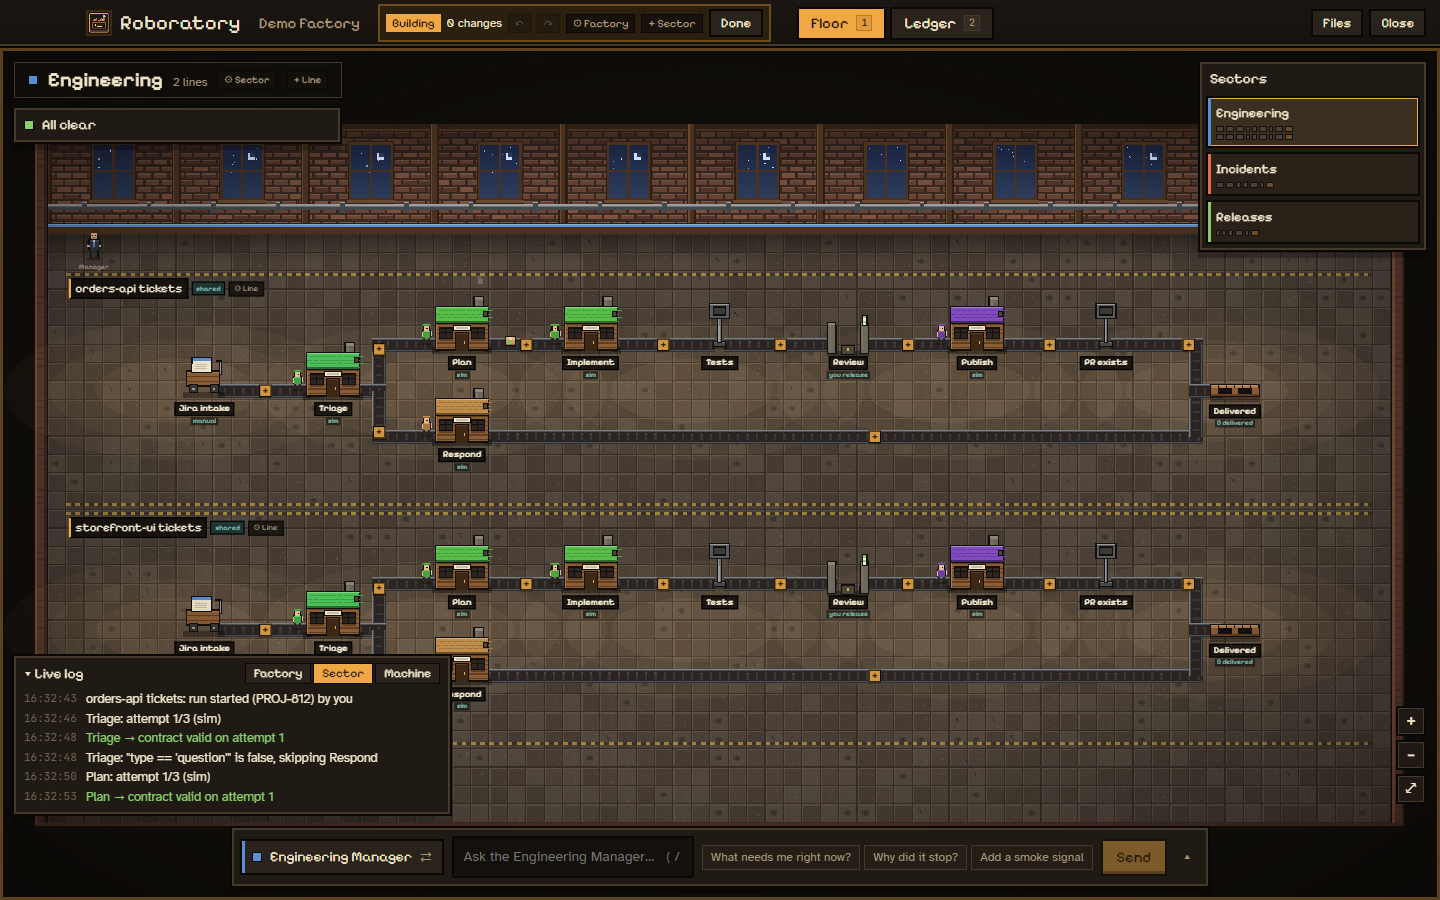
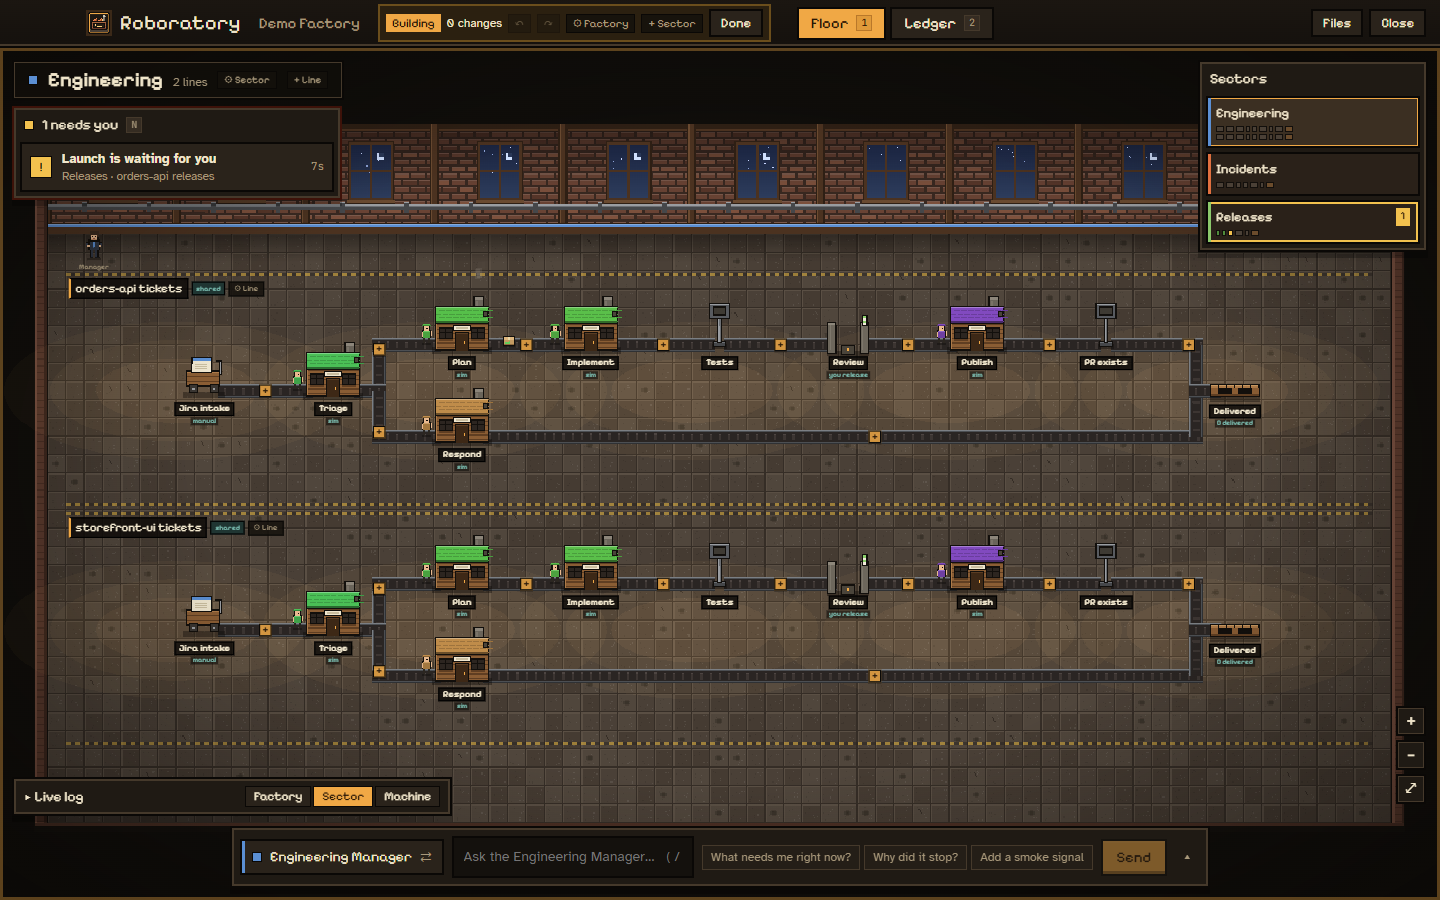
README: a cleaner Floor image, and "Stay in control" as a capability
The Floor image now shows the Releases sector at work, with the live log folded
and nothing burning. "Stay in control" joins the list of what you can do today.

Changed region(s): [[0.0, 0.7156, 0.3125, 0.9022], [0.0, 0.1244, 0.25, 0.2489], [0.9688, 0.2178, 1.0, 0.2489]]

diff --git a/README.md b/README.md
@@ -15,7 +15,7 @@
 
 Roboratory is for work that has to be repeatable and auditable: turning tickets into pull requests, answering incidents, shipping to production. Each line is a deterministic workflow defined in files and versioned in git. The agents only produce what goes inside each step, and every step's output has to pass a contract before it moves on.
 
-![The Engineering sector on the Floor](https://raw.githubusercontent.com/caribeedu/roboratory/main/docs/screenshots/floor.png)
+![The Releases sector on the Floor, with a release line at work](https://raw.githubusercontent.com/caribeedu/roboratory/main/docs/screenshots/floor.png)
 
 ## Why
 
@@ -79,20 +79,13 @@ A run starts at an **intake** with a work order. Each **machine** runs a headles
 
   <img src="https://raw.githubusercontent.com/caribeedu/roboratory/main/docs/screenshots/manager-proposal.png" alt="A Sector Manager proposing a change, shown as a diff" width="900">
 
+- **Stay in control:** when a machine burns or a gate waits for you, the Floor says so and opens the piece's panel: the error and the agent's last steps with a hint field for the retry, or the signals before the gate and its confirmations.
+
+  <img src="https://raw.githubusercontent.com/caribeedu/roboratory/main/docs/screenshots/fire-panel.png" alt="A machine on fire, with its fire panel" width="440"> <img src="https://raw.githubusercontent.com/caribeedu/roboratory/main/docs/screenshots/gate.png" alt="A two-confirmation gate" width="440">
+
 - **Build the factory on the Floor:** create sectors and lines, insert machines, signals and gates with "+" slots, connect return belts, edit roles and contracts, and save only after the checks pass. YAML is edited in place, so your diffs stay small.
 
   <img src="https://raw.githubusercontent.com/caribeedu/roboratory/main/docs/screenshots/build-mode.png" alt="Build mode on the Floor, with a plus slot on every belt" width="900">
-
-### Stay in control
-
-When something burns, or a gate waits for you, the Floor tells you and opens the piece's panel: the error and the agent's last steps with a hint field for the retry, or the signals before the gate with its confirmations.
-
-<table>
-  <tr>
-    <td><img src="https://raw.githubusercontent.com/caribeedu/roboratory/main/docs/screenshots/fire-panel.png" alt="A machine on fire, with its fire panel"></td>
-    <td><img src="https://raw.githubusercontent.com/caribeedu/roboratory/main/docs/screenshots/gate.png" alt="A two-confirmation gate"></td>
-  </tr>
-</table>
 
 ## Getting started
 
